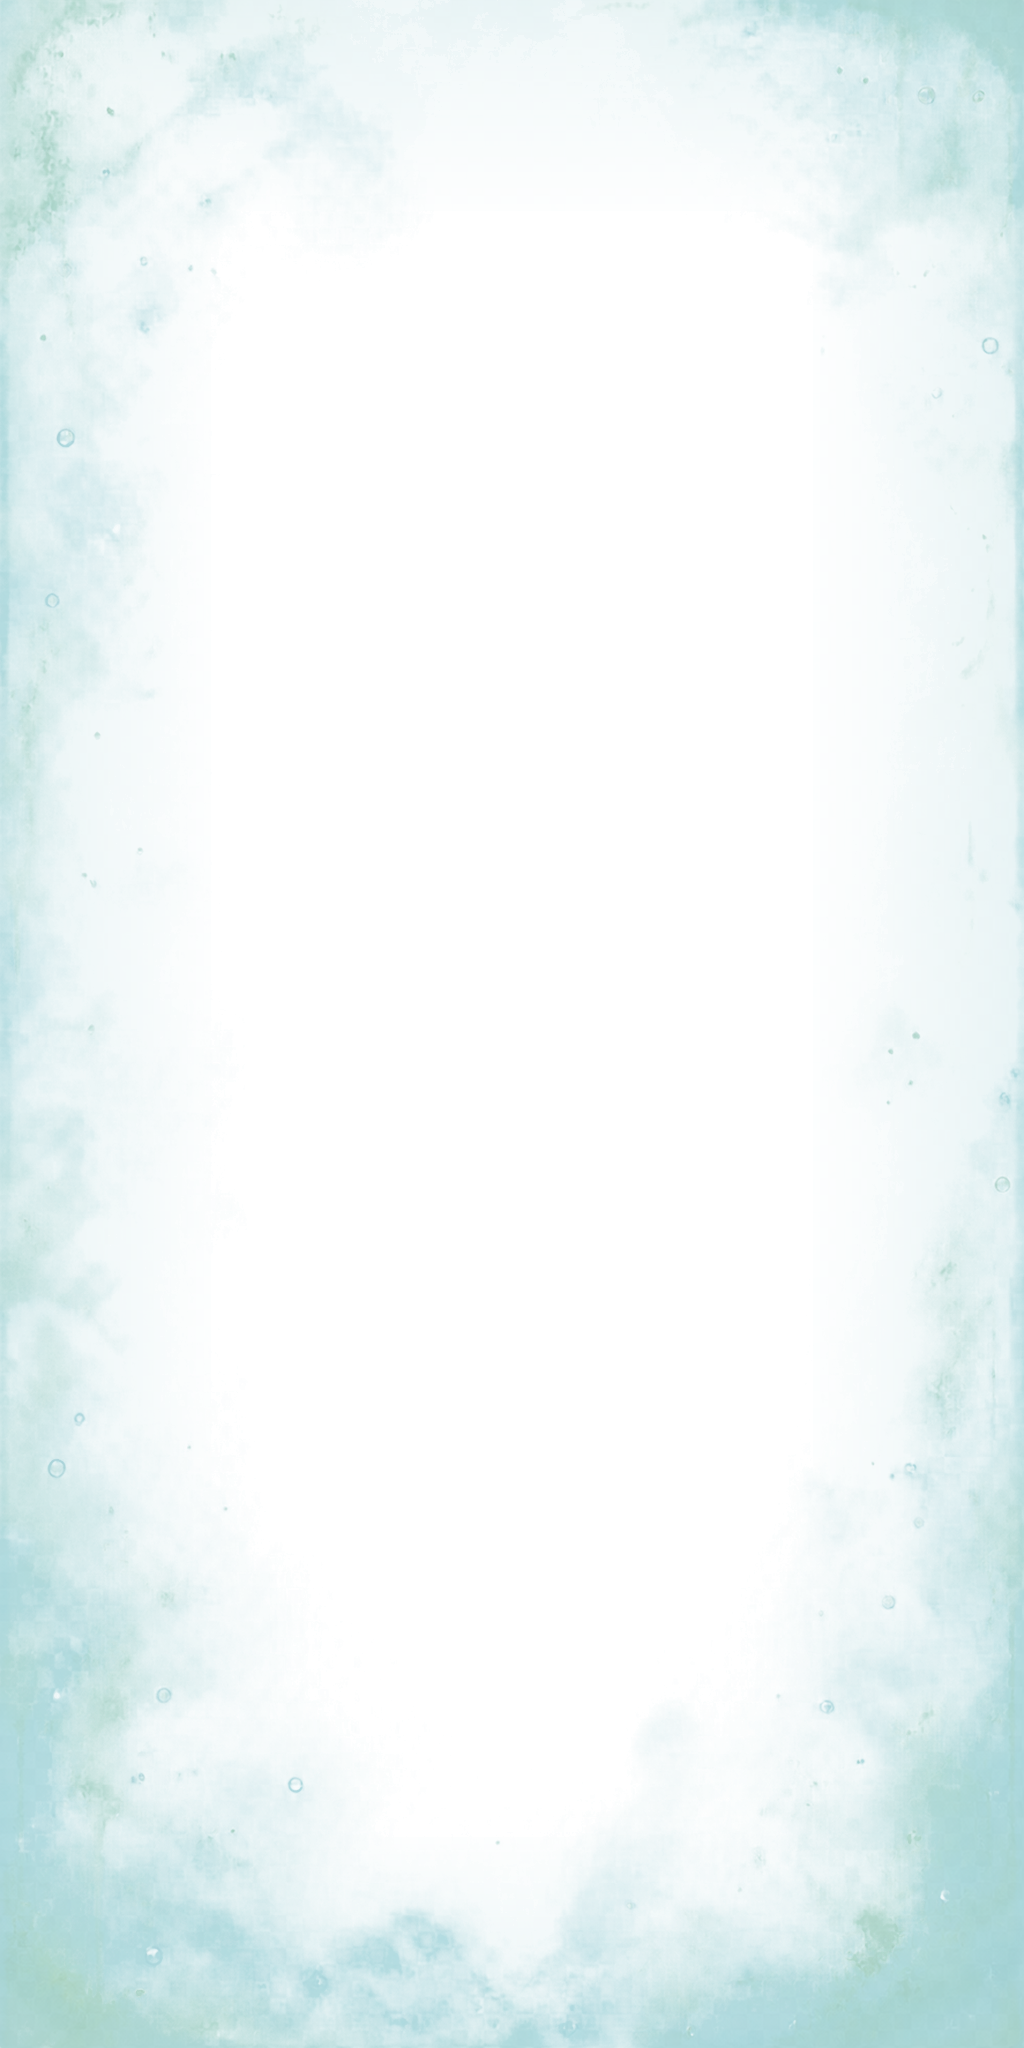
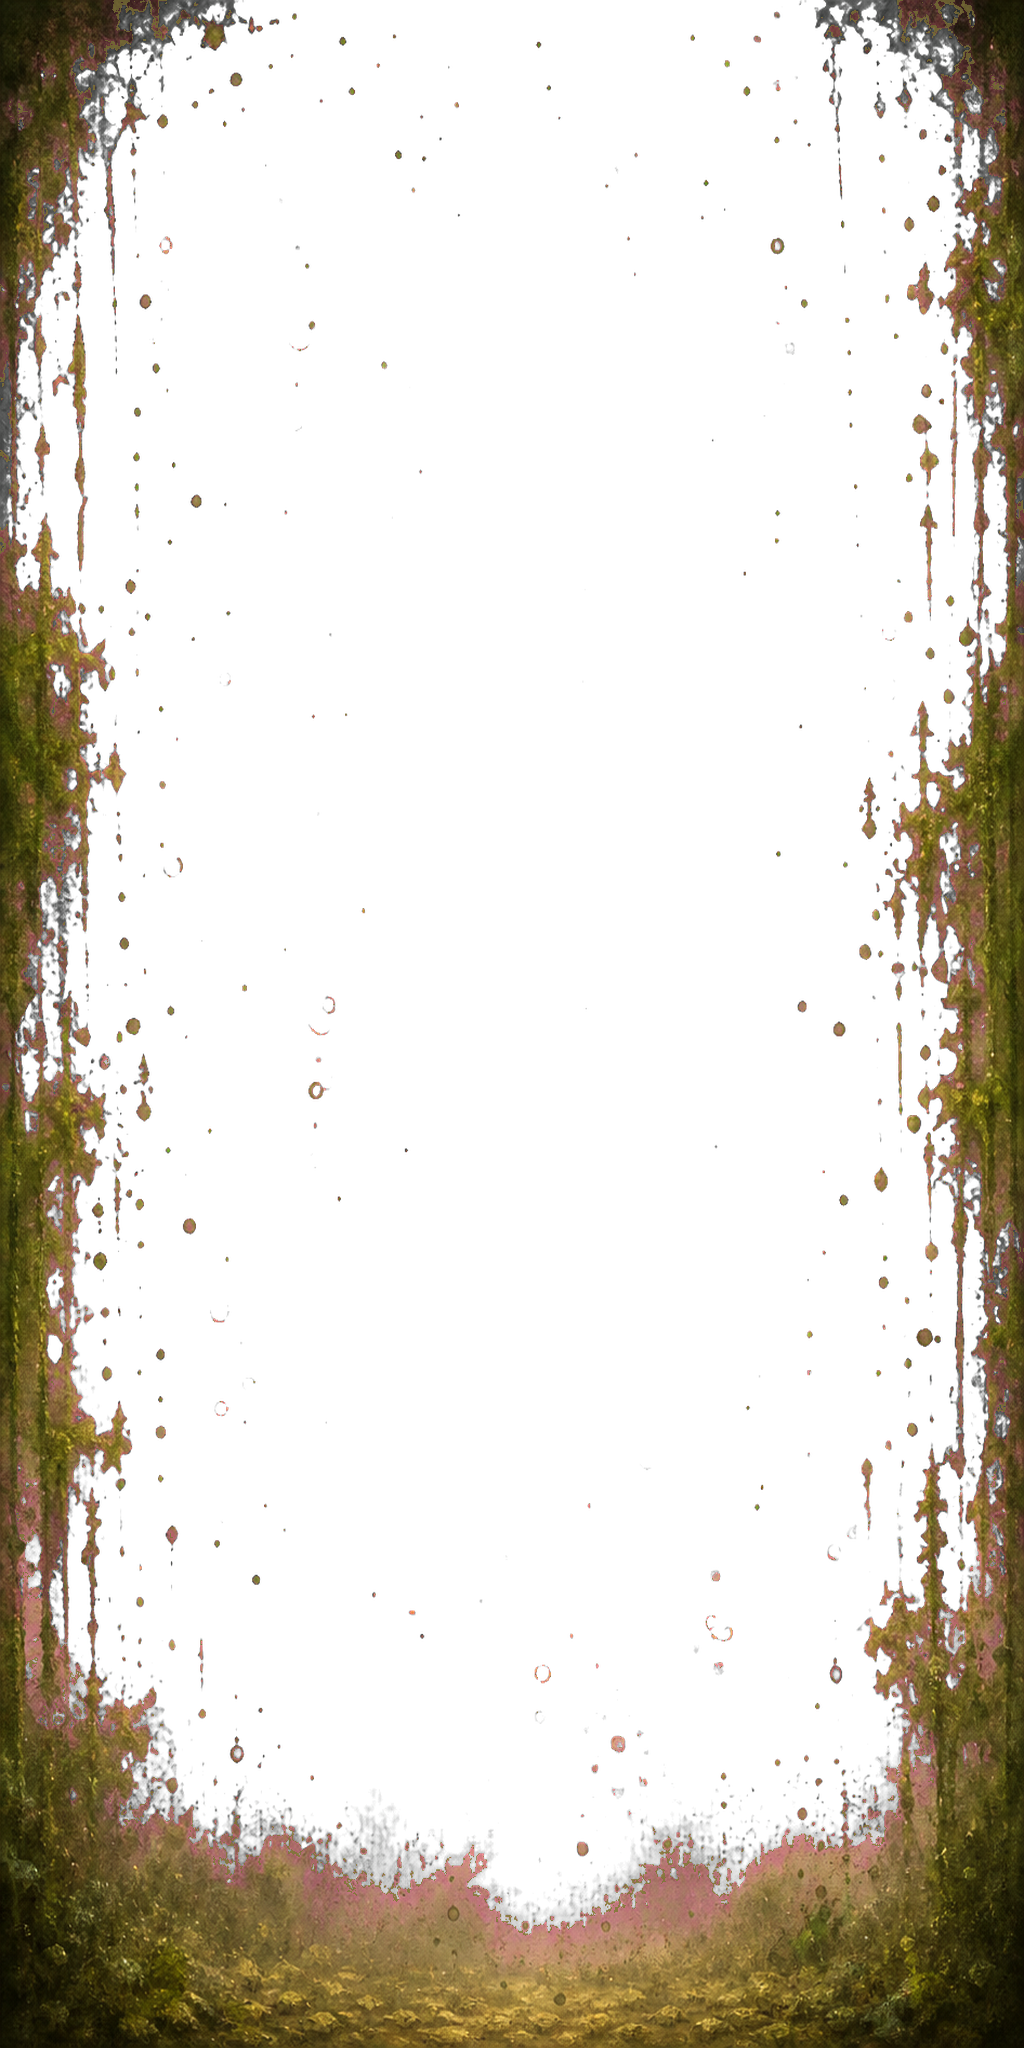
Add script to generate wavy swim spritesheet from transparent fish PNG
- Implemented a Python script that creates a subtle wavy swim spritesheet by manipulating the alpha channel of a given transparent fish image.
- Added functions for alpha bounds calculation, bilinear sampling, tail progress calculation, and rendering frames.
- The script accepts command-line arguments for input/output file paths, number of frames, amplitude, and tail side.

diff --git a/src/scenes/AquariumScene.ts b/src/scenes/AquariumScene.ts
@@ -301,7 +301,7 @@ const defaultHudLayout: HudLayout = {
   }
 };
 const dirtyTankOverlayThreshold = 72;
-const dirtyTankOverlayMaxAlpha = 0.94;
+const dirtyTankOverlayMaxAlpha = 0.5;
 
 type AquariumTestSnapshot = {
   coins: number;
@@ -634,6 +634,10 @@ export class AquariumScene extends Phaser.Scene {
   public preload(): void {
     fishTypes.forEach((fishType) => {
       this.load.image(`fish-${fishType.id}`, `/assets/fish/${fishType.id}.png`);
+      this.load.spritesheet(`fish-${fishType.id}-swim`, `/assets/fish/${fishType.id}-swim.png`, {
+        frameWidth: 256,
+        frameHeight: 160
+      });
     });
     foodTypes.forEach((foodType) => {
       this.load.image(this.foodTextureKey(foodType.id), `/assets/food/${foodType.id}.png`);
@@ -682,6 +686,7 @@ export class AquariumScene extends Phaser.Scene {
   public create(): void {
     this.configureCameraForHighDpi();
     this.createTextures();
+    this.createFishAnimations();
     this.loadHelperFoodDispenserY();
     this.createWorld();
     this.createUi();
@@ -698,6 +703,23 @@ export class AquariumScene extends Phaser.Scene {
     if (import.meta.env.DEV && new URLSearchParams(window.location.search).has("openStore")) {
       this.time.delayedCall(100, () => this.openScreen("store"));
     }
+  }
+
+  private createFishAnimations(): void {
+    fishTypes.forEach((fishType) => {
+      const textureKey = `fish-${fishType.id}-swim`;
+      const animationKey = `${textureKey}-idle`;
+      if (!this.textures.exists(textureKey) || this.anims.exists(animationKey)) {
+        return;
+      }
+
+      this.anims.create({
+        key: animationKey,
+        frames: this.anims.generateFrameNumbers(textureKey, { start: 0, end: 5 }),
+        frameRate: 5,
+        repeat: -1
+      });
+    });
   }
 
   public update(_time: number, delta: number): void {
@@ -1304,7 +1326,6 @@ export class AquariumScene extends Phaser.Scene {
     const overlay = this.add
       .image(tankViewportBounds.centerX, tankViewportBounds.centerY, dirtyTankOverlayTextureKey)
       .setDisplaySize(tankViewportBounds.width, tankViewportBounds.height)
-      .setTint(0x6f7d36)
       .setBlendMode(Phaser.BlendModes.NORMAL)
       .setDepth(17)
       .setAlpha(0)
@@ -1314,14 +1335,14 @@ export class AquariumScene extends Phaser.Scene {
   }
 
   private updateDirtyTankOverlay(overlay = this.dirtyTankOverlay): void {
-    if (!overlay) {
-      return;
-    }
-
     const dirtyRatio = Phaser.Math.Clamp((dirtyTankOverlayThreshold - this.cleanliness) / dirtyTankOverlayThreshold, 0, 1);
     const visible = dirtyRatio > 0;
-    overlay.setVisible(visible);
-    overlay.setAlpha(visible ? Phaser.Math.Linear(0.12, dirtyTankOverlayMaxAlpha, Math.pow(dirtyRatio, 0.72)) : 0);
+    const easedRatio = Math.pow(dirtyRatio, 0.72);
+
+    if (overlay) {
+      overlay.setVisible(visible);
+      overlay.setAlpha(visible ? Phaser.Math.Linear(0.12, dirtyTankOverlayMaxAlpha, easedRatio) : 0);
+    }
   }
 
   private applyTankViewScale(): void {
@@ -1500,6 +1521,8 @@ export class AquariumScene extends Phaser.Scene {
     this.gameHudSuperRareText!.textContent = formatNumber(this.wallet.superRare);
     this.gameHudWealthText!.textContent = formatNumber(this.calculateTankNetWorth());
     this.gameHudCleanText!.textContent = `Clean ${formatNumber(Math.round(this.cleanliness))}%`;
+    this.gameHudCleanText!.parentElement?.classList.toggle("is-clean-warning", this.cleanliness < 72 && this.cleanliness >= 35);
+    this.gameHudCleanText!.parentElement?.classList.toggle("is-clean-danger", this.cleanliness < 35);
     this.gameHudHappyText!.textContent = `Happy ${formatNumber(Math.round(this.calculateTankHappiness()))}%`;
     this.helperFoodDispenserText!.textContent = this.foodBadgeLabel(this.getFoodInventory(creatureFoodTypeId));
     this.syncHelperFoodDispenserPosition();

diff --git a/src/objects/Fish.ts b/src/objects/Fish.ts
@@ -110,6 +110,7 @@ export class Fish {
     const textureKey = this.customTextureKey();
     this.usesCustomTexture = textureKey !== "fish-base";
     this.sprite = scene.add.sprite(x, y, textureKey);
+    this.playSwimAnimation();
     this.textureAspectRatio = this.usesCustomTexture ? this.sprite.height / Math.max(1, this.sprite.width) : baseTextureHeight / baseTextureWidth;
     this.setStateTint();
     this.setVisualScale(this.desiredAgeScale());
@@ -1192,8 +1193,20 @@ export class Fish {
   }
 
   private customTextureKey(): string {
+    const animatedTexture = `fish-${this.type.id}-swim`;
+    if (this.scene.textures.exists(animatedTexture)) {
+      return animatedTexture;
+    }
+
     const textureKey = `fish-${this.type.id}`;
     return this.scene.textures.exists(textureKey) ? textureKey : "fish-base";
+  }
+
+  private playSwimAnimation(): void {
+    const animationKey = `fish-${this.type.id}-swim-idle`;
+    if (this.scene.anims.exists(animationKey)) {
+      this.sprite.play(animationKey);
+    }
   }
 
   private isFullyGrown(): boolean {

diff --git a/src/styles.css b/src/styles.css
@@ -548,6 +548,28 @@ canvas {
     @apply relative z-10 whitespace-nowrap;
   }
 
+  .aq-game-hud-pill.is-clean-warning {
+    @apply border-amber-200/70 text-amber-50;
+    background: rgba(120, 82, 12, 0.46);
+  }
+
+  .aq-game-hud-pill.is-clean-warning::before {
+    background:
+      radial-gradient(circle at 18% 14%, rgba(255, 255, 255, 0.46) 0 10%, transparent 11%),
+      linear-gradient(180deg, rgba(255, 221, 125, 0.34), rgba(161, 112, 20, 0.3) 46%, rgba(80, 51, 7, 0.46));
+  }
+
+  .aq-game-hud-pill.is-clean-danger {
+    @apply border-red-200/75 text-red-50;
+    background: rgba(116, 24, 18, 0.58);
+  }
+
+  .aq-game-hud-pill.is-clean-danger::before {
+    background:
+      radial-gradient(circle at 18% 14%, rgba(255, 255, 255, 0.42) 0 10%, transparent 11%),
+      linear-gradient(180deg, rgba(255, 132, 104, 0.36), rgba(168, 40, 30, 0.35) 48%, rgba(78, 11, 9, 0.52));
+  }
+
   .aq-game-wallet-chip span,
   .aq-game-wealth-chip span {
     @apply whitespace-nowrap;

diff --git a/scripts/generate-fish-swim-sheet.py b/scripts/generate-fish-swim-sheet.py
@@ -1,0 +1,103 @@
+#!/usr/bin/env python3
+from __future__ import annotations
+
+import argparse
+import math
+from pathlib import Path
+
+from PIL import Image
+
+
+def alpha_bounds(image: Image.Image) -> tuple[int, int, int, int]:
+    alpha = image.getchannel("A")
+    bounds = alpha.getbbox()
+    if bounds is None:
+        return (0, 0, image.width, image.height)
+    return bounds
+
+
+def bilinear_sample(source: Image.Image, x: float, y: float) -> tuple[int, int, int, int]:
+    width, height = source.size
+    if x < 0 or x >= width - 1 or y < 0 or y >= height - 1:
+        return (0, 0, 0, 0)
+
+    x0 = int(math.floor(x))
+    y0 = int(math.floor(y))
+    x1 = min(width - 1, x0 + 1)
+    y1 = min(height - 1, y0 + 1)
+    tx = x - x0
+    ty = y - y0
+    px = source.load()
+    c00 = px[x0, y0]
+    c10 = px[x1, y0]
+    c01 = px[x0, y1]
+    c11 = px[x1, y1]
+
+    channels = []
+    for channel in range(4):
+      top = c00[channel] * (1 - tx) + c10[channel] * tx
+      bottom = c01[channel] * (1 - tx) + c11[channel] * tx
+      channels.append(int(round(top * (1 - ty) + bottom * ty)))
+
+    return tuple(channels)  # type: ignore[return-value]
+
+
+def tail_progress_for_x(x: float, left: int, right: int, fish_width: int, tail_side: str) -> float:
+    if tail_side == "left":
+        progress = (right - x) / fish_width
+    else:
+        progress = (x - left) / fish_width
+    return max(0.0, min(1.0, progress))
+
+
+def offset_for_progress(progress: float, phase: float, amplitude: float, tail_side: str) -> tuple[float, float]:
+    bend_weight = progress**1.9
+    wave_offset = math.sin(phase + progress * math.pi * 0.72)
+    tail_direction = -1 if tail_side == "left" else 1
+    x_offset = amplitude * bend_weight * wave_offset * tail_direction
+    y_offset = amplitude * 0.18 * bend_weight * math.sin(phase + progress * math.pi * 1.35)
+    return (x_offset, y_offset)
+
+
+def render_frame(source: Image.Image, frame_index: int, frame_count: int, amplitude: float, tail_side: str) -> Image.Image:
+    width, height = source.size
+    left, top, right, bottom = alpha_bounds(source)
+    fish_width = max(1, right - left)
+    phase = (math.tau * frame_index) / frame_count
+    frame = Image.new("RGBA", source.size, (0, 0, 0, 0))
+    frame_pixels = frame.load()
+
+    for x in range(width):
+        tail_progress = tail_progress_for_x(x, left, right, fish_width, tail_side)
+        x_offset, y_offset = offset_for_progress(tail_progress, phase, amplitude, tail_side)
+        for y in range(height):
+            frame_pixels[x, y] = bilinear_sample(source, x - x_offset, y - y_offset)
+
+    return frame
+
+
+def main() -> None:
+    parser = argparse.ArgumentParser(description="Generate a subtle wavy swim spritesheet from one transparent fish PNG.")
+    parser.add_argument("--input", required=True, type=Path)
+    parser.add_argument("--output", required=True, type=Path)
+    parser.add_argument("--frames", type=int, default=6)
+    parser.add_argument("--amplitude", type=float, default=4.0)
+    parser.add_argument("--tail-side", choices=["left", "right"], default="left")
+    args = parser.parse_args()
+
+    source = Image.open(args.input).convert("RGBA")
+    frames = [
+        render_frame(source, index, args.frames, args.amplitude, args.tail_side)
+        for index in range(args.frames)
+    ]
+
+    sheet = Image.new("RGBA", (source.width * args.frames, source.height), (0, 0, 0, 0))
+    for index, frame in enumerate(frames):
+        sheet.alpha_composite(frame, (index * source.width, 0))
+
+    args.output.parent.mkdir(parents=True, exist_ok=True)
+    sheet.save(args.output)
+
+
+if __name__ == "__main__":
+    main()
